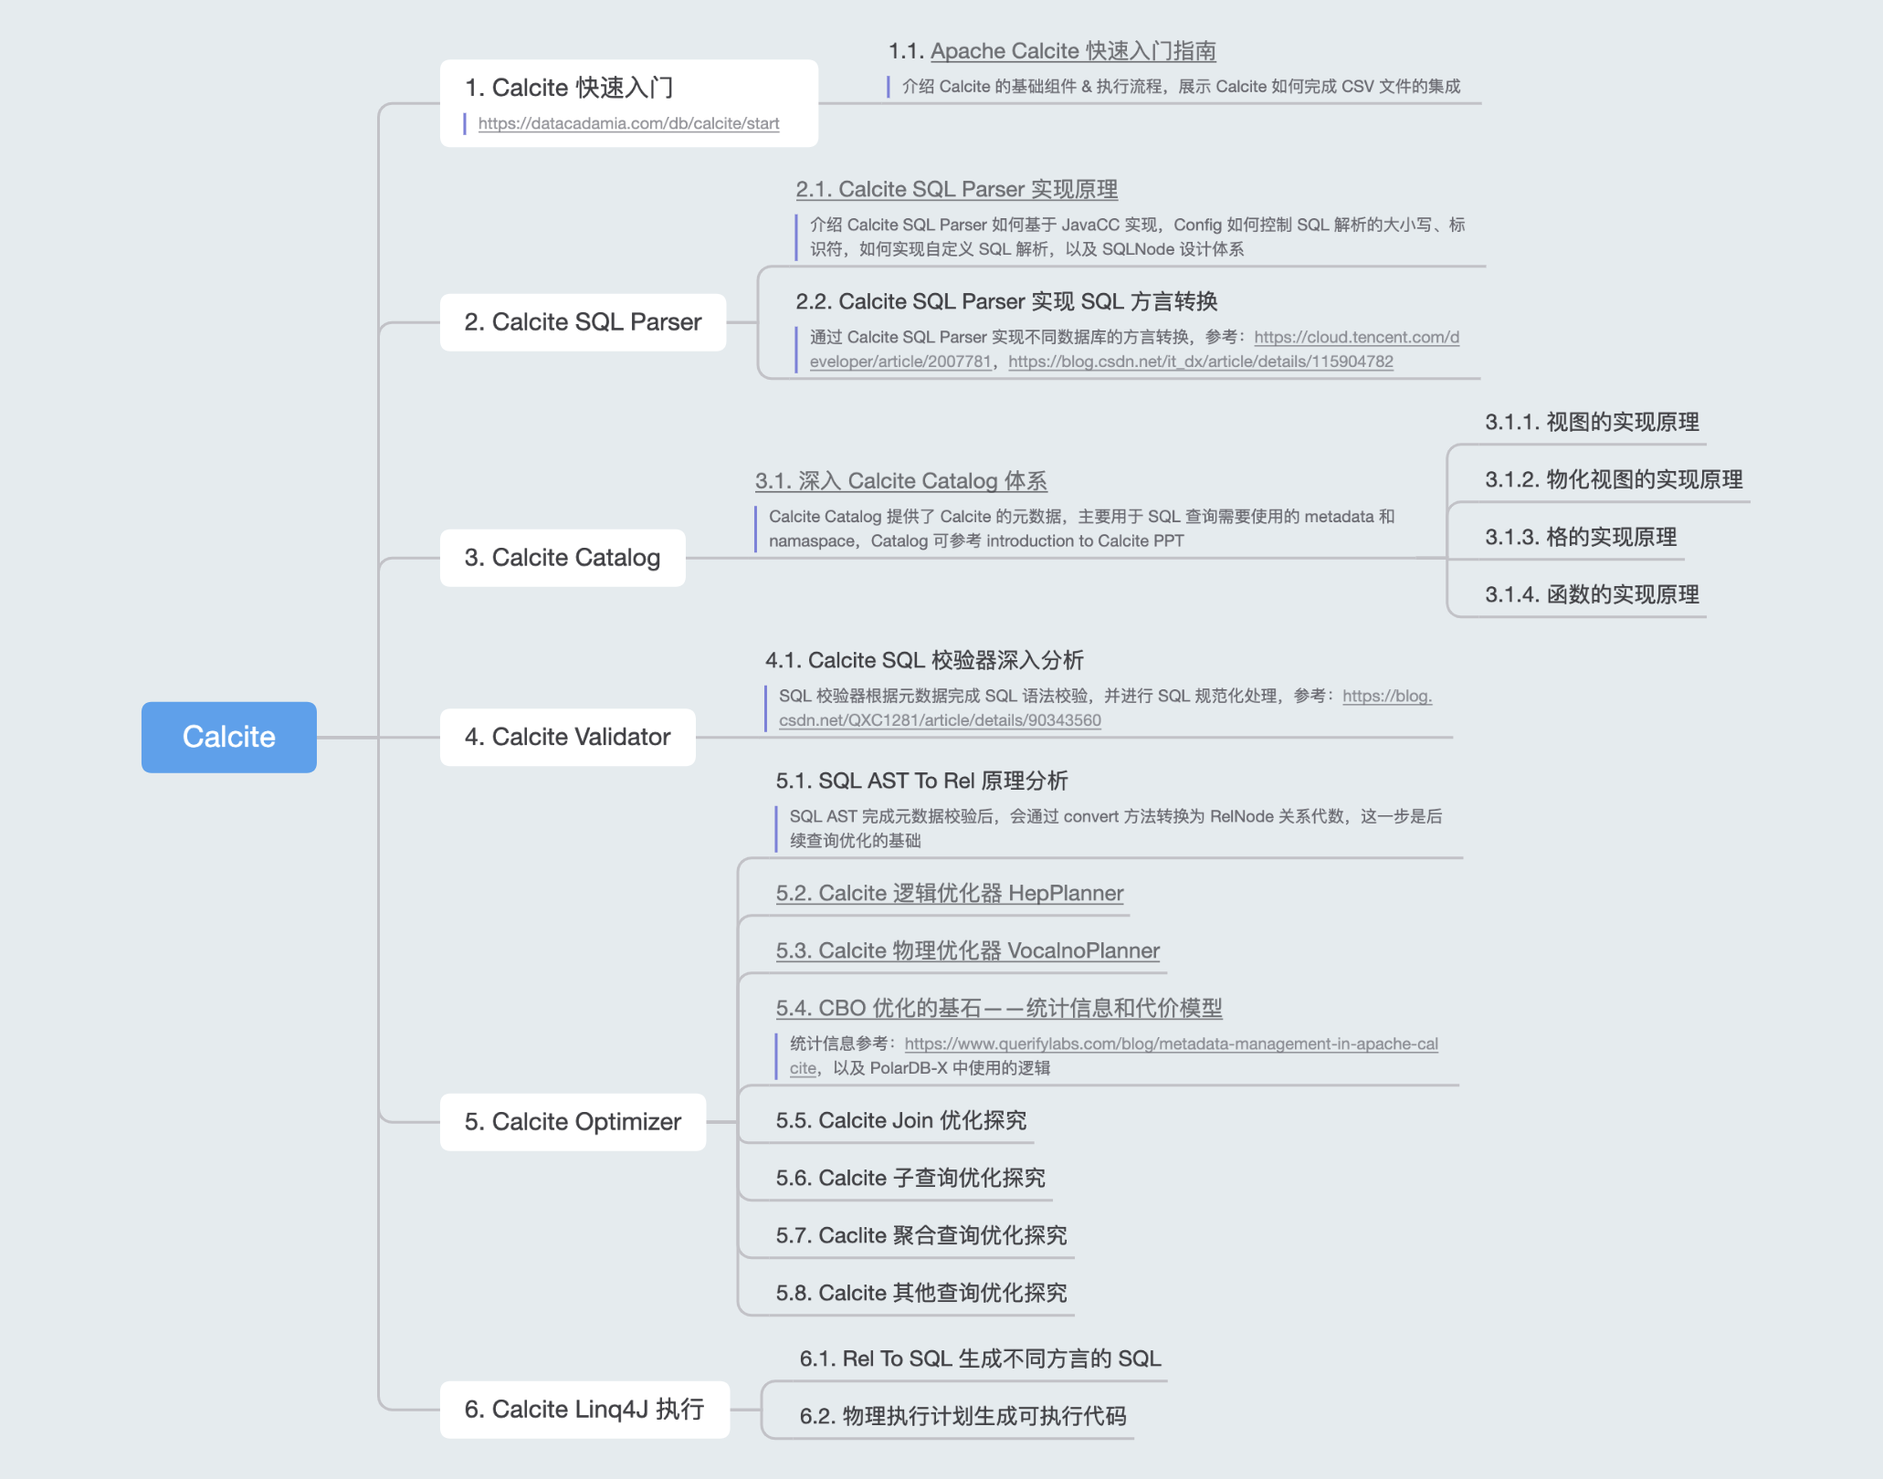
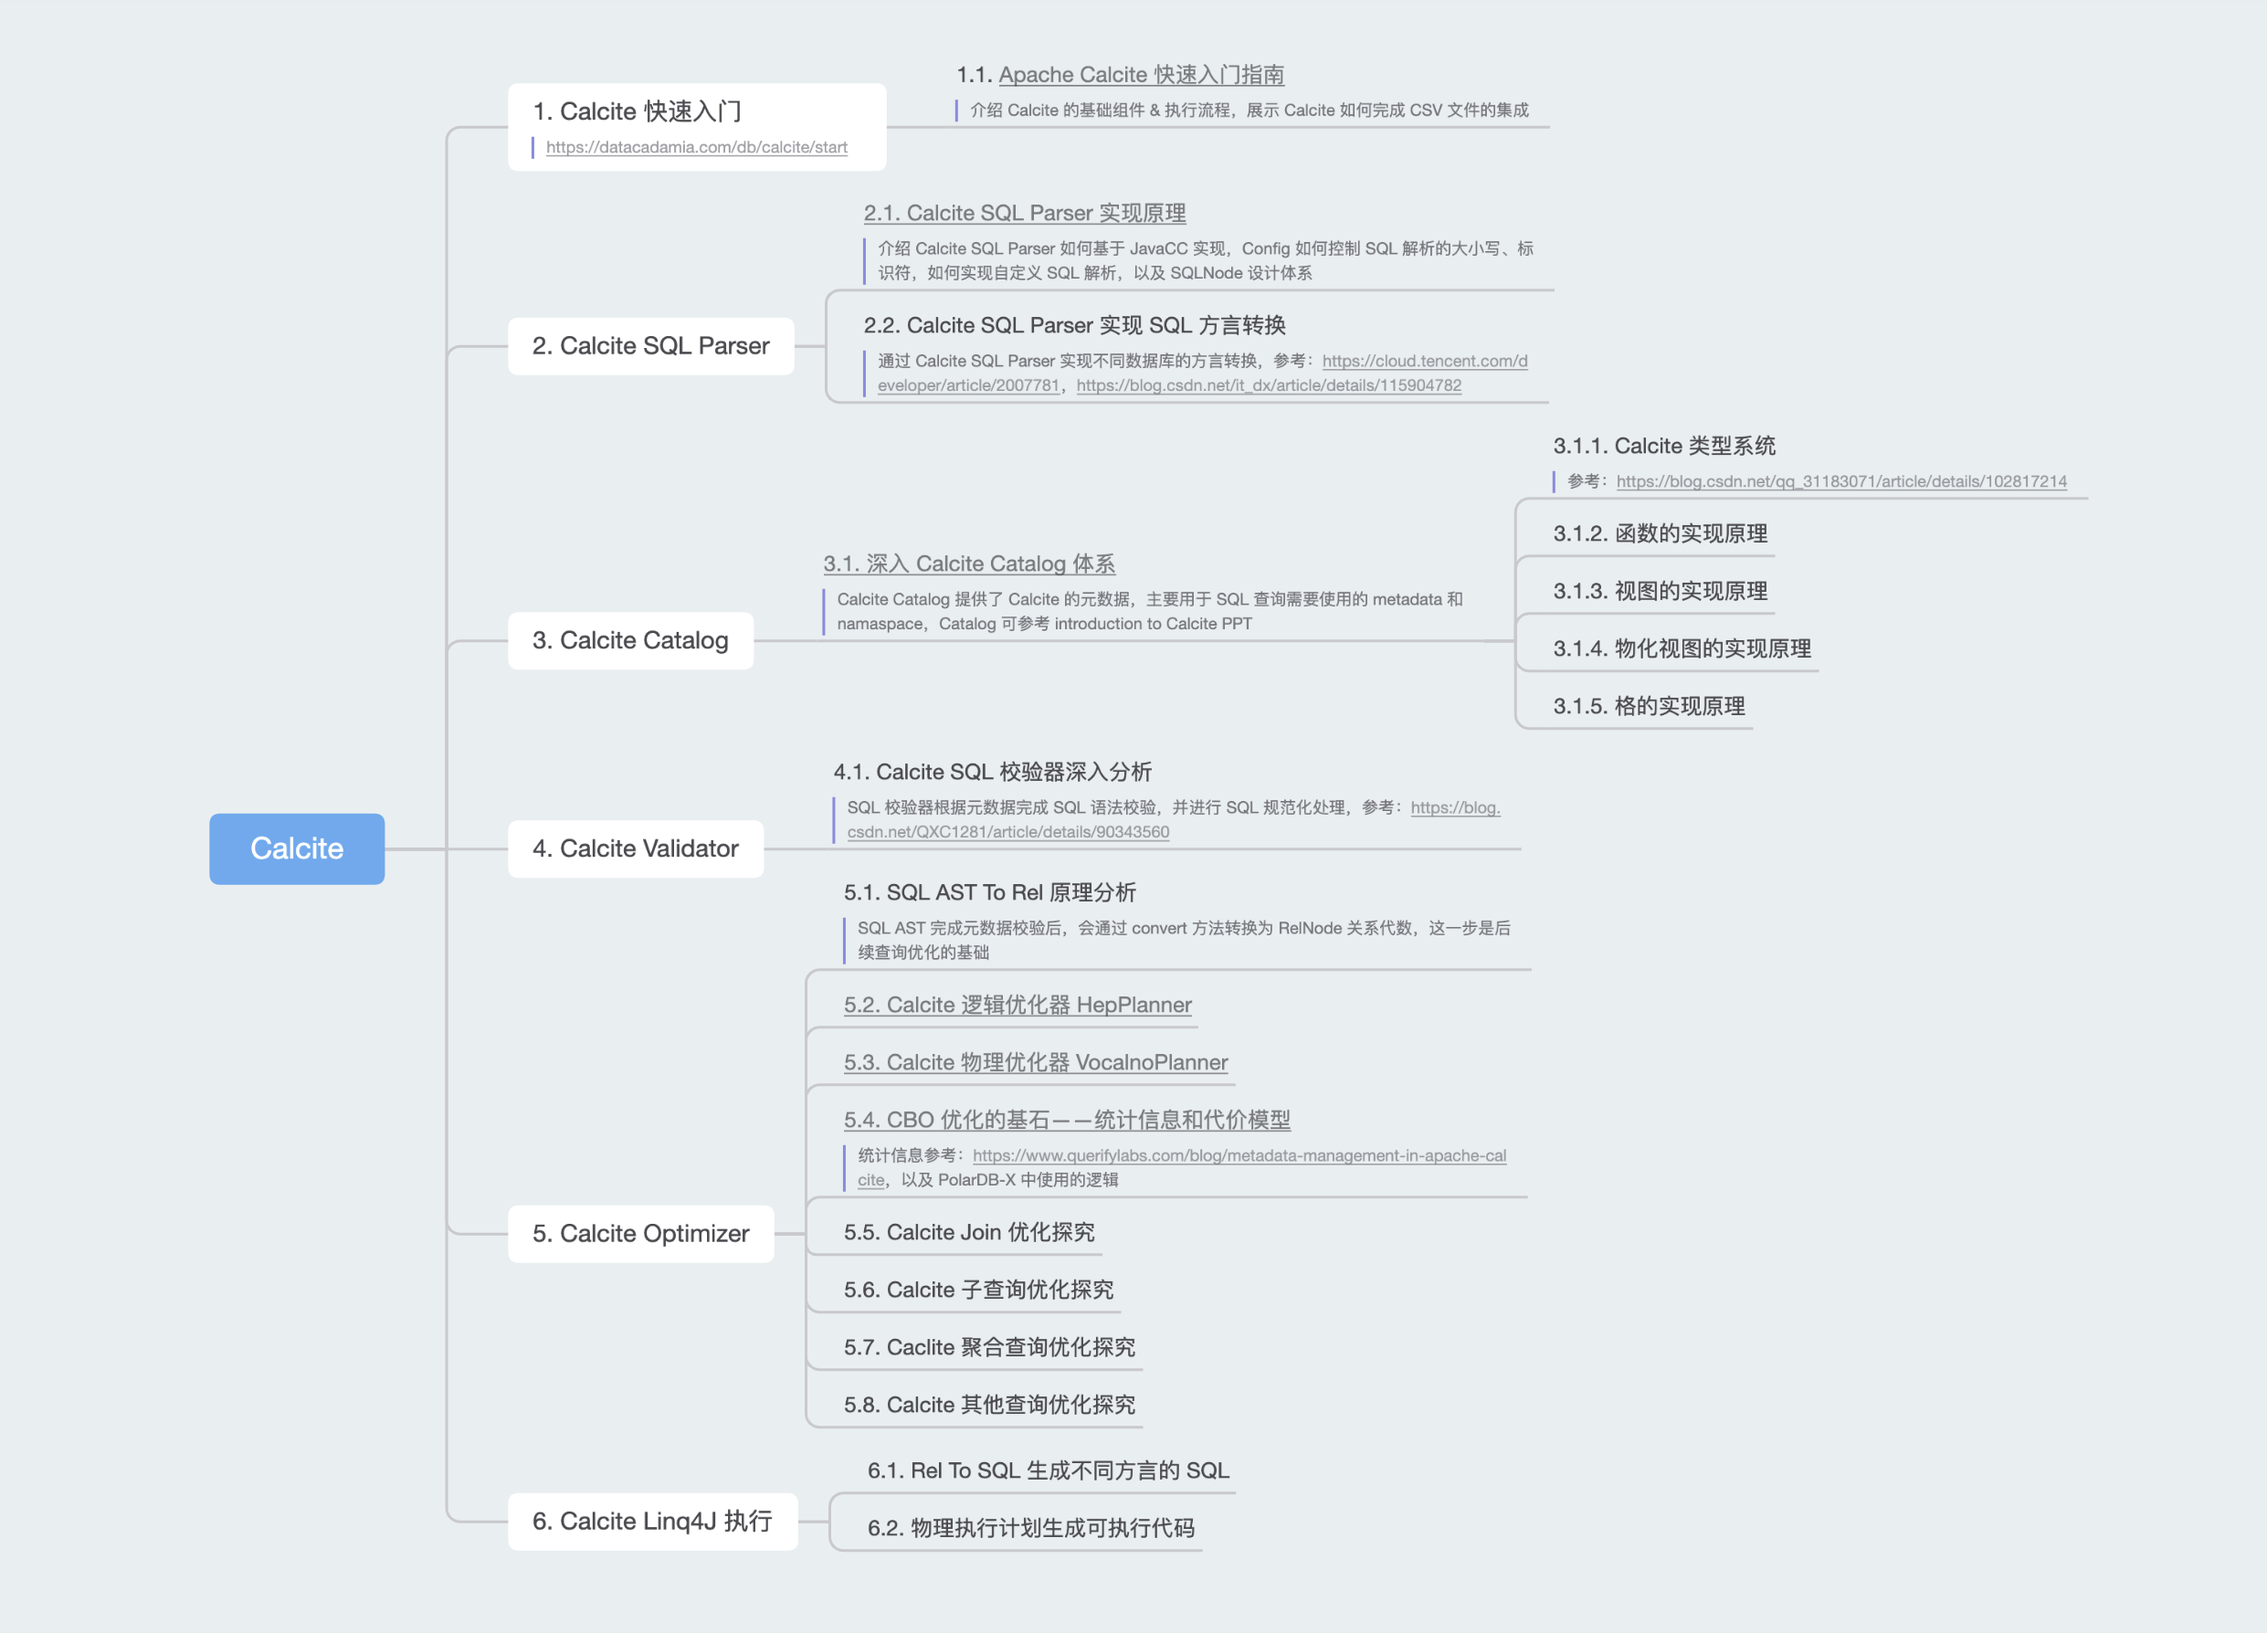
update calcite catalog

Changed region(s): [[0.0621, 0.1235, 0.9311, 0.9877], [0.2173, 0.0309, 0.7759, 0.1235], [0.7449, 0.5247, 0.7759, 0.5556]]

diff --git a/source/_posts/blog/explore-apache-calcite-system-catalog-implementation.md b/source/_posts/blog/explore-apache-calcite-system-catalog-implementation.md
@@ -3,7 +3,7 @@ title: Apache Calcite System Catalog 实现探究
 tags: [Calcite]
 categories: [Calcite]
 date: 2023-10-30 08:45:38
-updated: 2024-03-19 08:00:00
+updated: 2024-03-23 09:00:00
 cover: /assets/blog/2022/04/05/1649126780.jpg
 references:
   - '[Introduction to Apache Calcite Catalog](https://note.youdao.com/s/YCJgUjNd)'
@@ -57,7 +57,7 @@ public abstract class CalciteSchema {
     private @Nullable List<? extends List<String>> path;
 ```
 
-* **Schema**
+### Schema
 
 根据 SQL 标准定义，Schema 是一个描述符的持久命名集合（`a persistent, named collection of descriptors`），Schema 中通常包含了`表`、`列`、`数据类型`、`视图`、`存储过程`、`关系`、`主键`和`外键`等对象。而 Schema 在 Calcite 中，则是针对数据库 Database 或 Catalog 的抽象，Schema 中可以包含子 Schema，也可以包含若干个表。
 
@@ -118,7 +118,7 @@ public interface SchemaPlus extends Schema {
 
 此外，在 Schema 接口中还包含了 `Table`、`RelDataType`、`Function` 等对象，这些和全局共享的  `Table`、`RelProtoDataType`、`Function` 对象作用一样，只是生效的范围不同，我们将在下面的全局对象中分别介绍。
 
-* **Table**
+### Table
 
 `Table` 表示 Calcite 中的一张表，Table 可以定义在某个 Schema 中，也可以定义在全局范围，全局表会在所有 Schema 中生效。Table 接口包含的主要方法如下，`getRowType` 方法用于获取表的行类型，行类型包含了所有列及其类型。`getStatistic` 方法用于获取 `Statistic` 统计信息对象，用于在查询优化阶段计算代价。`getJdbcTableType` 方法则用于获取表类型。
 
@@ -150,7 +150,7 @@ Calcite Table 接口有很多实现类，分别适用于不同的场景，它的
 
 `ViewTable` 类则用于视图处理，通过将视图定义语句 `viewSql` 转化为 AST 及关系代数，并在 `toRel` 处理过程中将原有的视图查询语句展开，变换为对原始表的查询，从而实现视图语义。
 
-* **RelDataType**
+### RelDataType
 
 `RelDataType` 代表了关系表达式返回的数据行类型或者标量表达式的类型，Calcite 支持了所有的 SQL 数据类型，也包括结构和数组类型。RelDataType 接口中的主要方法如下：
 
@@ -189,11 +189,20 @@ public interface RelDataType {
 
 `getFieldList` 方法用于获取结构类型中的字段，Calcite 中关系表达式返回的数据行类型使用 RelDataType 表示，每一列的类型通过 `RelDataTypeField` 表示，RelDataTypeField 内部仍然封装了 RelDataType 表示字段类型。`isNullable` 方法表示当前类型是否支持为空，`getCharset` 用于获取当前类型的字符集编码，`getCollation` 用于获取当前类型的排序规则。`getPrecision` 和 `getScale` 方法分别用于获取该类型的精度和范围，精度表示字段的长度，范围则表示小数的位数。
 
-* **Function**
+### Function
 
-TODO
+Calcite 对函数的定义是：接受参数并返回结果的命名表达式。函数通过 Schema 进行注册，可以通过 `Schema#getFunctions` 获取函数，然后根据参数类型获取对应的函数。
 
-* **Lattice**
+```java
+public interface Function {
+    
+    List<FunctionParameter> getParameters();
+}
+```
+
+TODO 补充函数继承体系
+
+### Lattice
 
 TODO
 

diff --git a/source/_posts/blog/apache-calcite-learning-materials.md b/source/_posts/blog/apache-calcite-learning-materials.md
@@ -4,6 +4,7 @@ tags: [Calcite, Query Optimization]
 categories: [Calcite]
 sticky: 999
 date: 2023-09-18 08:39:23
+updated: 2024-03-23 08:00:00
 cover: /assets/blog/2022/04/05/1649126780.jpg
 banner: /assets/banner/banner_2.jpg
 topic: calcite
